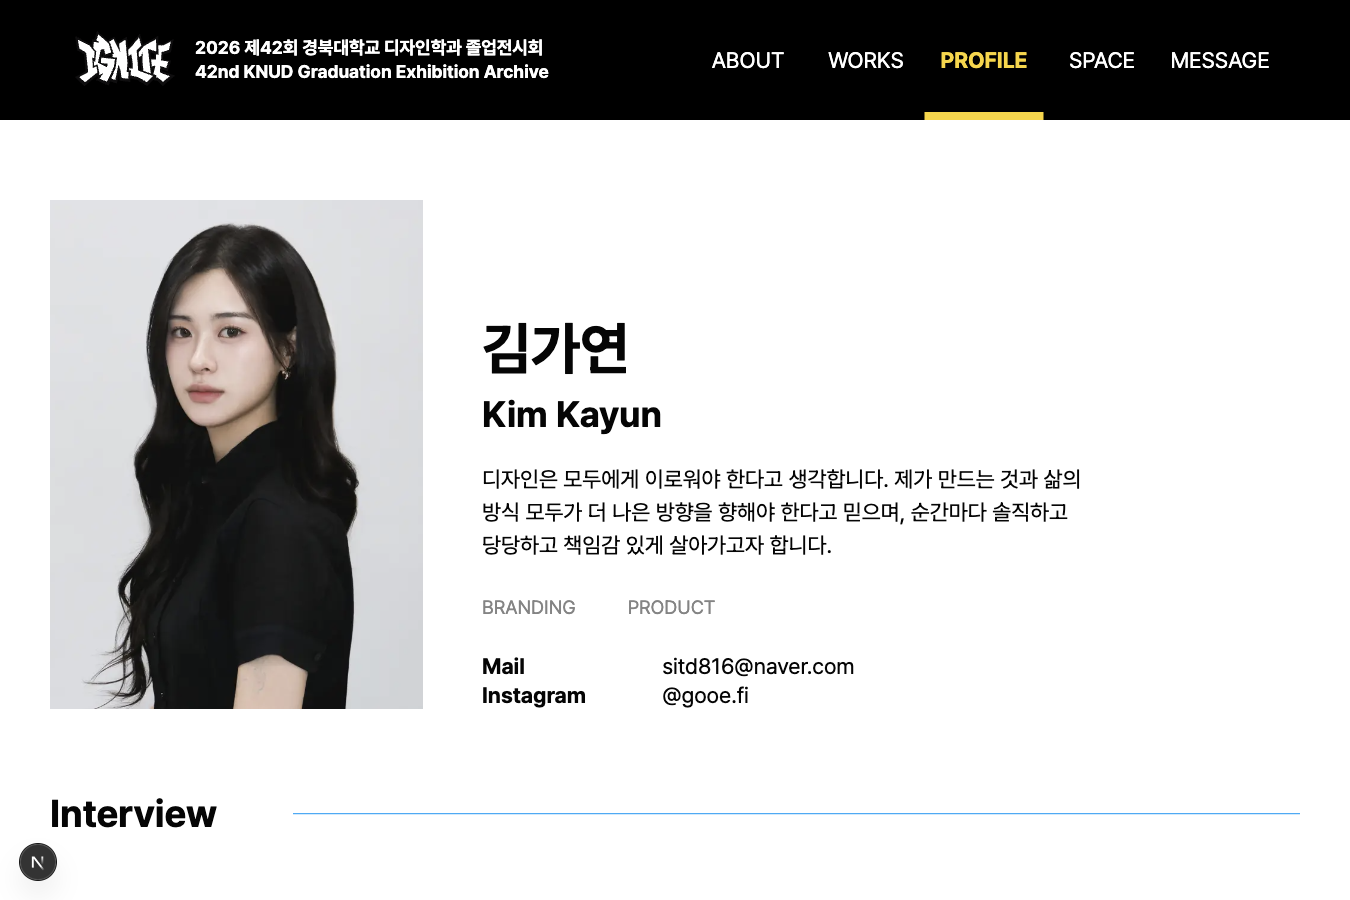
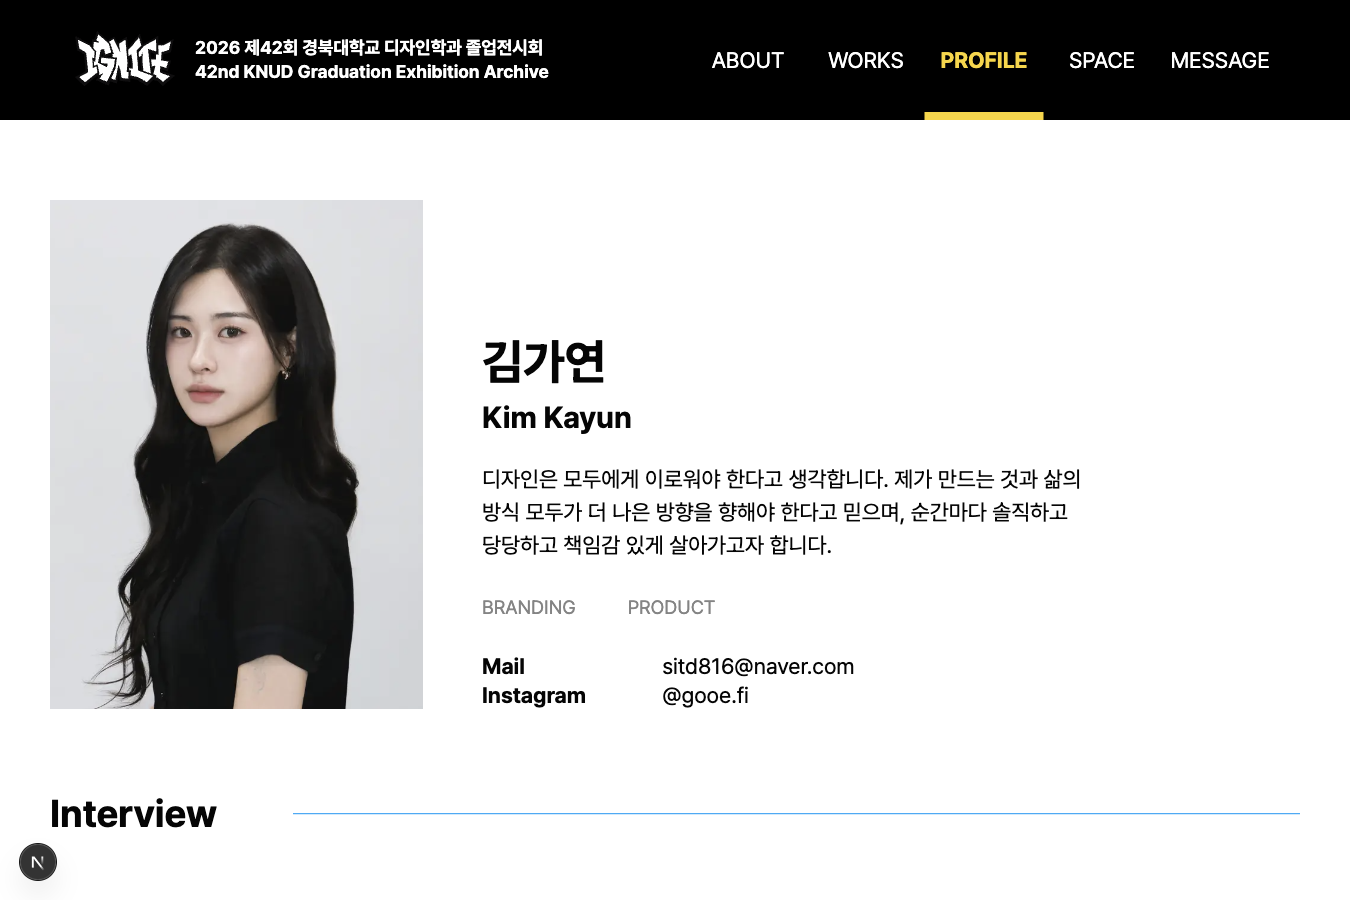
docs(profile): 이름 축소 규격과 최신 검수 화면을 기록
변경 내용:
- 이름 축소 후 최종 글자 크기와 변경하지 않은 영역을 문서화
- 작가 20명·9개 화면 폭 검사와 테스트 199개 통과 결과를 기록
- PR 검토용 PC·모바일 캡처를 최신 화면으로 갱신

변경 이유:
- 기존 PR에서 추가 디자인 피드백의 결과를 정확한 화면과 함께 확인할 수 있도록 하기 위해

Changed region(s): [[0.3422, 0.3422, 0.4978, 0.4978]]

diff --git a/DESIGN.md b/DESIGN.md
@@ -4,9 +4,9 @@
 
 시각 전제: 기존 전시 그래픽과 인물 사진은 보존하고, 절제된 타입 스케일과 짧아진 한 줄 길이로 작가의 말을 읽기 편하게 만든다. 이 항목이 아래 프로필 인터뷰 크기의 이전 기준보다 우선한다.
 
-- 첫 축소안이 작다는 후속 피드백을 반영해 중간 크기로 보정한다. PC 이름 국문 57~76px·영문 36~45px, 소개·연락처 22px, 분야 19px, 인터뷰 19px, 섹션 제목 38~44px로 조정한다.
-- 1020px 이하: 국문 47px·영문 28px, 소개 20px·연락처 19px, 분야 17px, 인터뷰 16px, 섹션 제목 28px.
-- 600px 이하: 국문 31px·영문 21px, 소개·인터뷰 14px, 섹션 제목 21px. 460px 이하 이름은 27px·19px, 섹션 제목 19px. 연락처의 기존 작은 한 줄 글자 크기는 더 줄이지 않는다.
+- 이름이 크다는 최신 피드백에 따라 이름만 한 단계 축소한다. PC 이름 국문 48~64px·영문 30~38px, 소개·연락처 22px, 분야 19px, 인터뷰 19px, 섹션 제목 38~44px를 사용한다.
+- 1020px 이하: 국문 40px·영문 24px, 소개 20px·연락처 19px, 분야 17px, 인터뷰 16px, 섹션 제목 28px.
+- 600px 이하: 국문 28px·영문 19px, 소개·인터뷰 14px, 섹션 제목 21px. 460px 이하 이름은 24px·17px, 섹션 제목 19px. 연락처의 기존 작은 한 줄 글자 크기는 더 줄이지 않는다.
 - 최신 피드백에 따라 PC 자기소개 폭만 66.6667%에서 75%로 넓히고 글자 크기는 유지한다. 1020px 이하에서는 100%를 유지한다. 고정 높이·line-clamp·숨김으로 내용을 잘라 맞추지 않는다.
 - Pretendard·색상·질문 굵기·연락처 순서·키보드 초점·Work hover는 유지한다. 본문은 좌측 정렬, 행간 1.5, 단어 우선 줄바꿈과 긴 문자열의 안전한 개행을 사용한다.
 - 가장 긴 소개와 메일 전용/소셜 변형을 포함한 20명을 1920·1350·1020·768·600·460·400·360·320px에서 확인한다. 사진과 본문의 높이가 달라지는 것은 정상이며 서로 겹치는 것은 허용하지 않는다.

diff --git a/docs/design/qa/2026-10-19-profile-reading-width.md b/docs/design/qa/2026-10-19-profile-reading-width.md
@@ -46,3 +46,11 @@
 ![PC 1350px](./assets/2026-10-19/profile-reading-desktop.png)
 
 ![Mobile 400px](./assets/2026-10-19/profile-reading-mobile.png)
+
+## 추가 요청 — 이름만 축소
+
+- 큰 PC 이름은 국문 76→64px·영문 45→38px, 1350px에서는 57→48px·36→30px로 줄였다. 태블릿은 40px·24px, 600px 이하는 28px·19px, 460px 이하는 24px·17px을 사용한다.
+- 소개 폭 75%, 소개·연락처·인터뷰 글자 크기, 사진 및 다른 배치는 변경하지 않았다. 위 PC·모바일 캡처도 이름을 줄인 최신 화면으로 갱신했다.
+- 현재 작가 20명 × 9개 폭(180개 조합)에서 잘림·겹침·가로 넘침이 발견되지 않았다. 이름 위계와 PC·모바일 배치를 확인했다.
+- 전체 테스트 199개와 lint·type-check·production build·diff 검사를 통과했다.
+- 후속 요청에 따라 스타일·테스트·검수 기록을 별도 커밋으로 분리하고 기존 PR #40 브랜치에 추가한다. main 병합·운영 배포는 진행하지 않는다.

diff --git a/PRODUCT.md b/PRODUCT.md
@@ -7,6 +7,7 @@
 - 큰 화면의 텍스트를 한 단계 줄이고, PC 자기소개는 사진 오른쪽 텍스트 영역 폭의 75%까지 사용한다.
 - 후속 피드백: 첫 축소안이 작게 느껴져 원래 크기와 첫 축소안 사이의 중간값으로 조금 키운다. 소개 폭과 배치는 유지한다.
 - 최신 피드백은 글자 확대가 아니라 소개 영역의 오른쪽 확장이므로, 글자 크기는 그대로 두고 폭만 약 67%에서 75%로 넓힌다.
+- 이름 후속 요청: 프로필 상세의 한글·영문 이름만 약 10~16% 작게 조정한다. 소개 폭 75%, 본문·연락처·인터뷰와 사진은 그대로 유지한다.
 - 모바일은 소개를 전체 폭으로 유지하고 본문·인터뷰 최소 14px 및 기존 연락처 한 줄 처리를 보존한다.
 - 현재 실제 작가 20명의 소개·메일 전용·소셜 연락처를 반응형으로 검사한다. 소개가 길어지면 문서 흐름에 따라 높이가 늘어나야 하며 잘림·겹침·생략은 없어야 한다.
 
